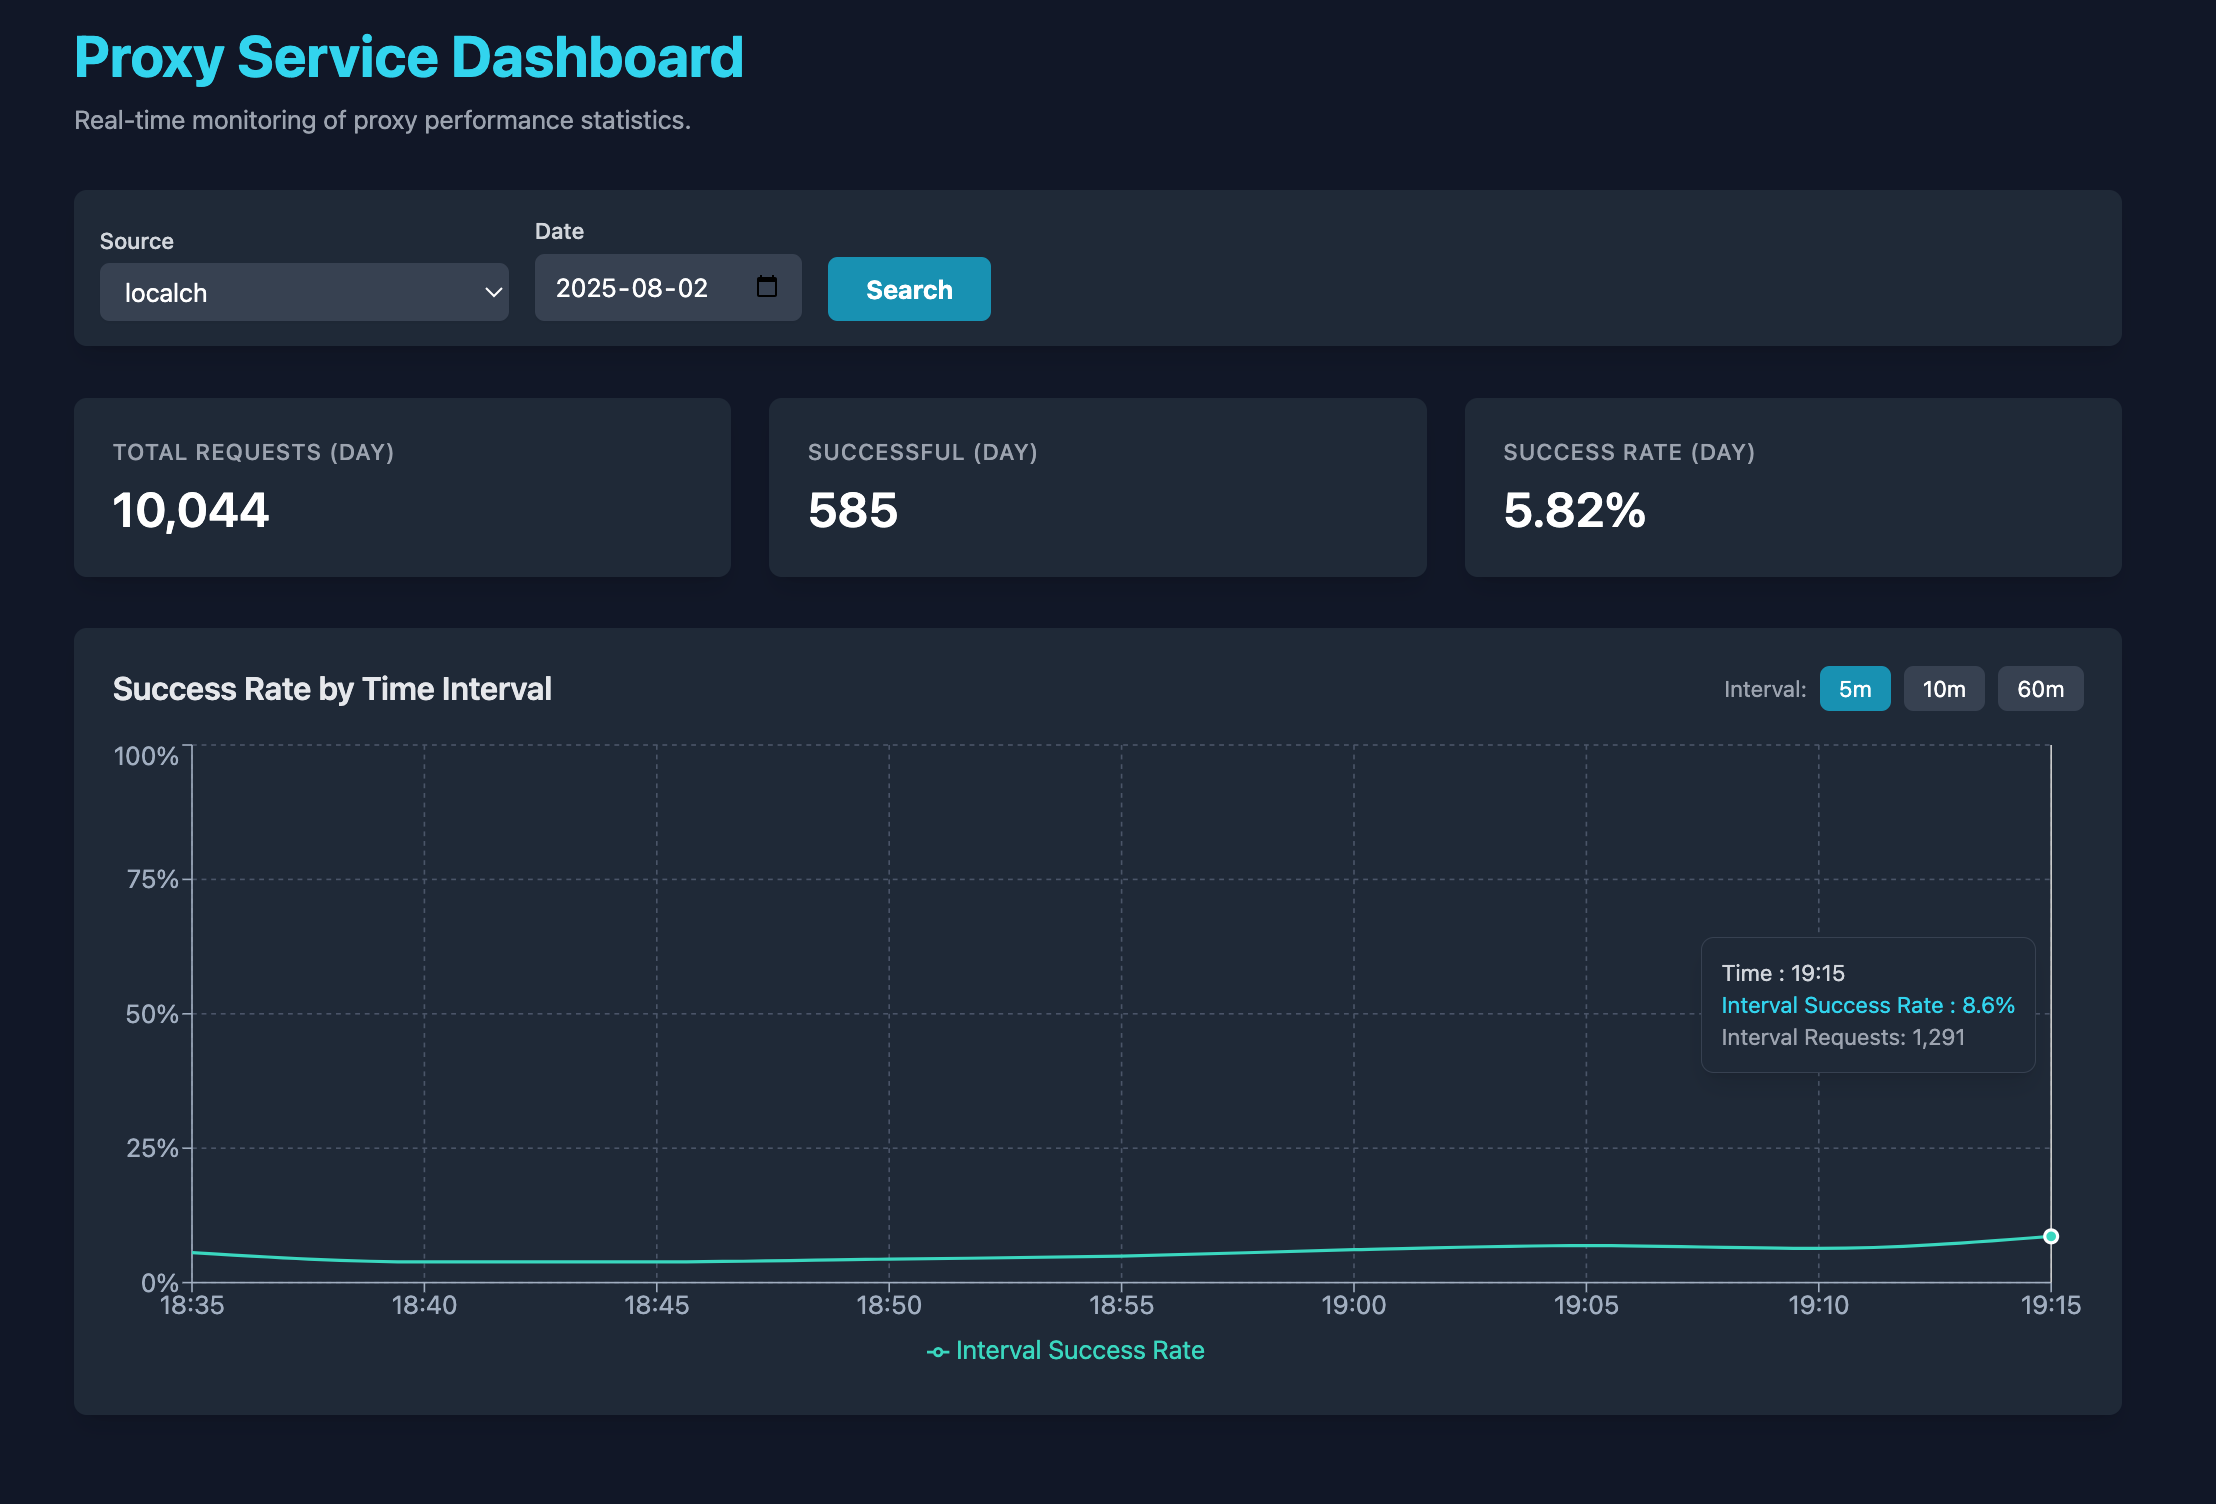
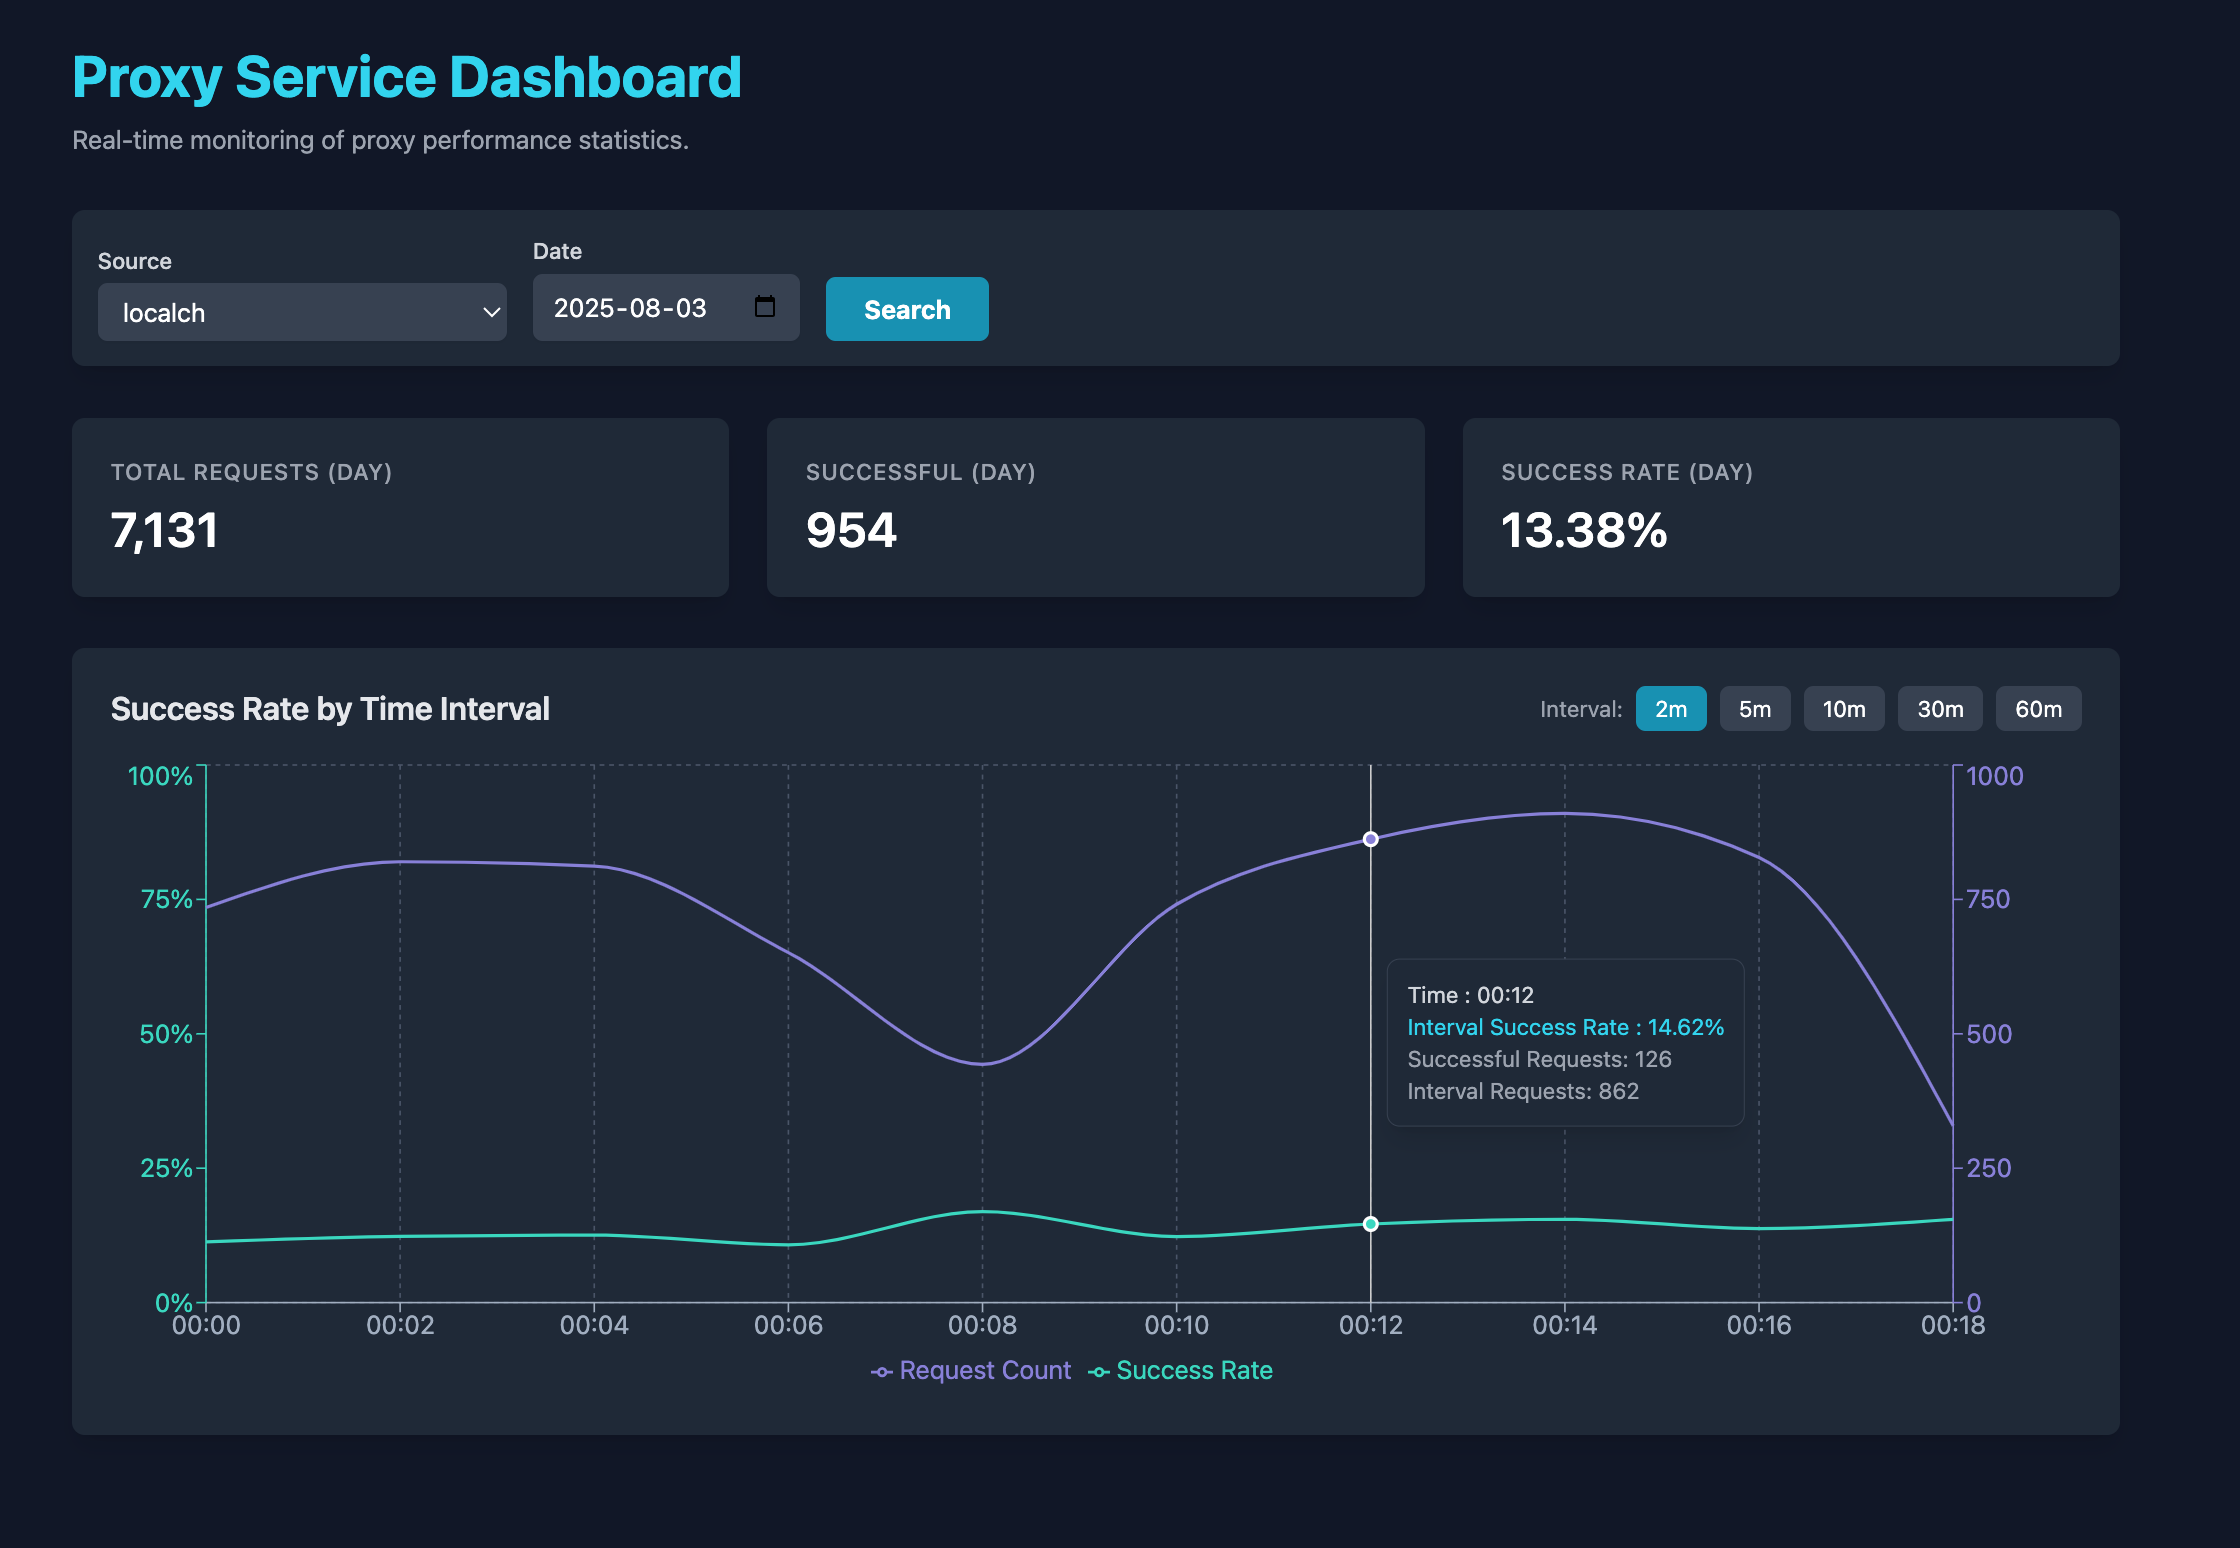
add requests count in the charts

diff --git a/dashboard/src/App.jsx b/dashboard/src/App.jsx
@@ -179,13 +179,16 @@ function App() {
               {loading ? (
                  <div className="flex items-center justify-center h-full text-gray-500">Loading chart data...</div>
               ) : timeseriesData.length > 0 ? (
-                <LineChart data={timeseriesData} margin={{ top: 5, right: 20, left: -10, bottom: 5 }}>
+                <LineChart data={timeseriesData} margin={{ top: 5, right: 20, left: 0, bottom: 5 }}>
                   <CartesianGrid strokeDasharray="3 3" stroke="#4A5568" />
                   <XAxis dataKey="time" stroke="#A0AEC0" />
-                  <YAxis stroke="#A0AEC0" unit="%" domain={[0, 100]} />
+                  {/* [MODIFIED] Added yAxisId to both YAxis and Line components */}
+                  <YAxis yAxisId="left" stroke="#2DD4BF" unit="%" domain={[0, 100]} />
+                  <YAxis yAxisId="right" orientation="right" stroke="#8884d8" />
                   <Tooltip content={<CustomTooltip />} />
                   <Legend wrapperStyle={{ color: '#E2E8F0' }} />
-                  <Line type="monotone" dataKey="success_rate" name="Interval Success Rate" stroke="#2DD4BF" strokeWidth={2} dot={false} />
+                  <Line yAxisId="left" type="monotone" dataKey="success_rate" name="Success Rate" stroke="#2DD4BF" strokeWidth={2} dot={false} />
+                  <Line yAxisId="right" type="monotone" dataKey="total_requests" name="Request Count" stroke="#8884d8" strokeWidth={2} dot={false} />
                 </LineChart>
               ) : (
                 <div className="flex items-center justify-center h-full text-gray-500">
